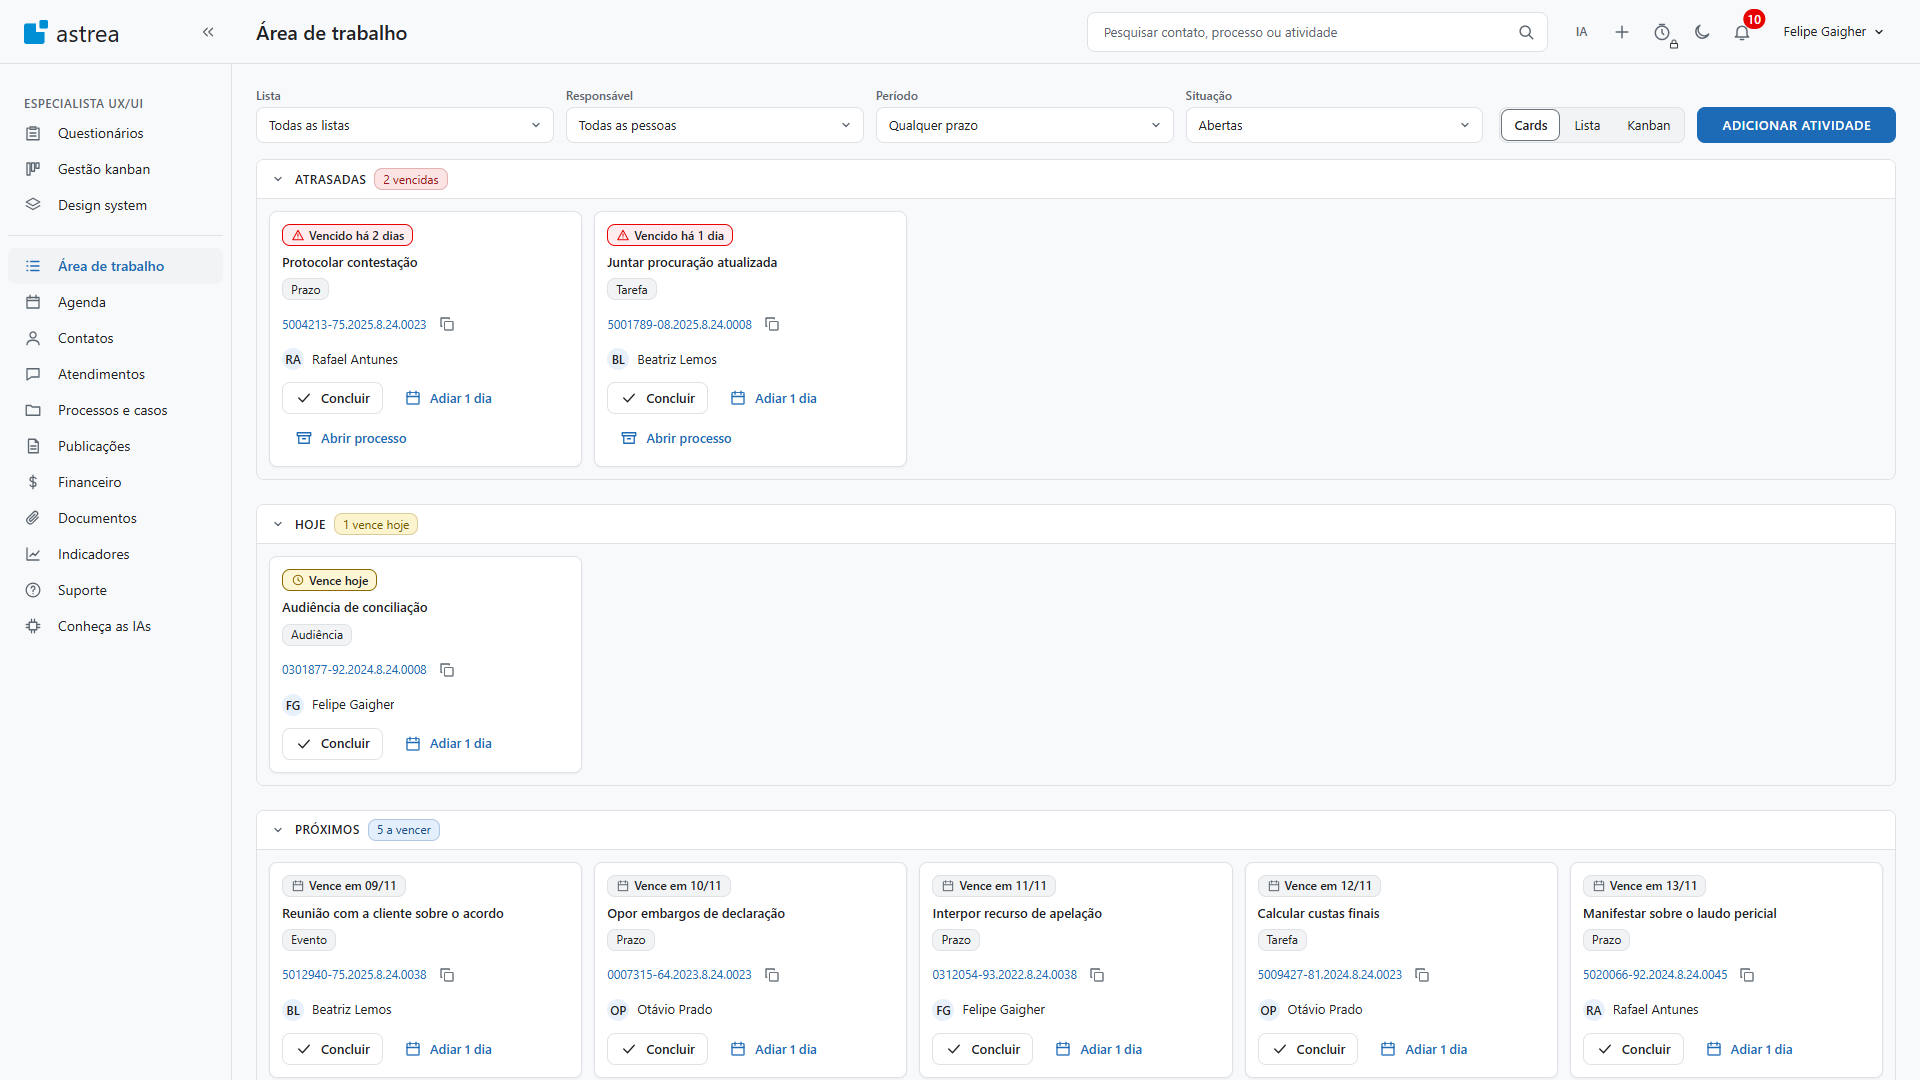
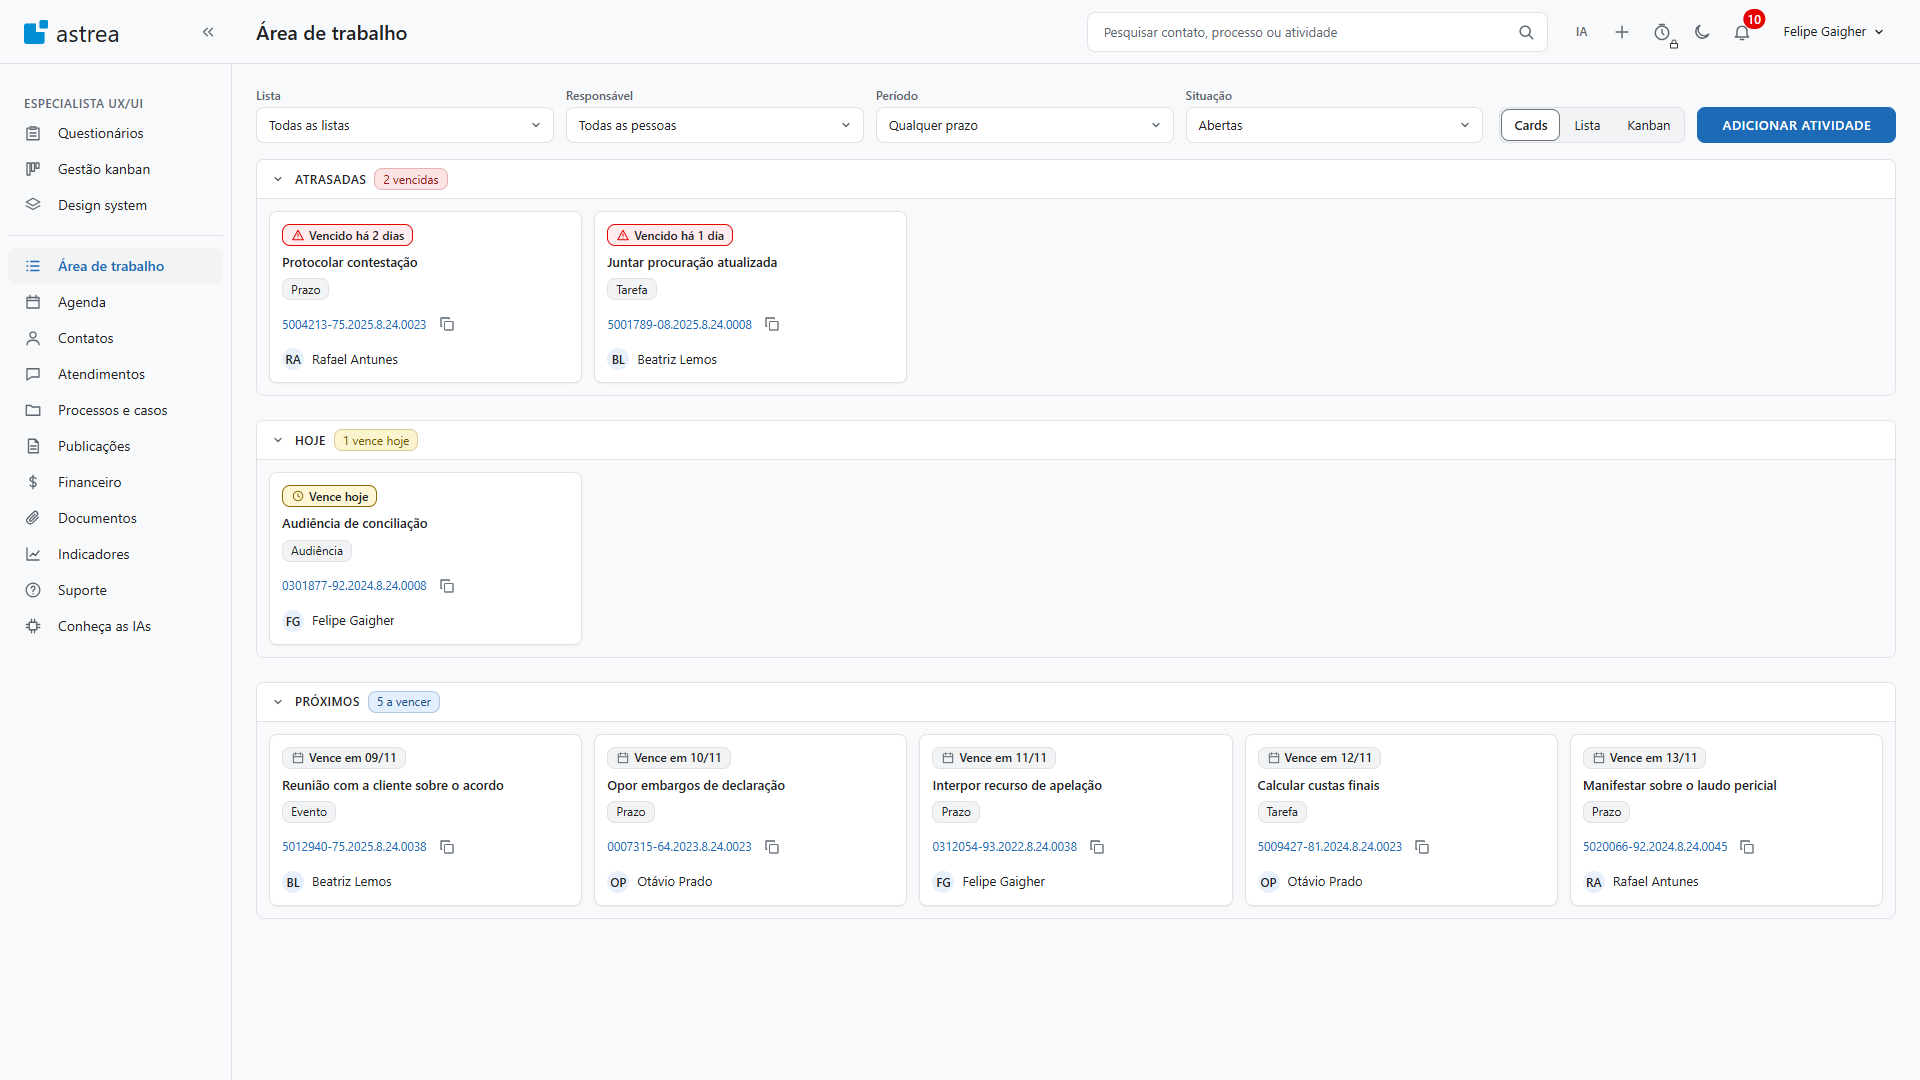
Área de trabalho: cards sem botões de ação; as ações ficam no painel de detalhe
Decisão de Felipe na revisão ao vivo: o card mostra e seleciona, o painel ao lado age. Contatos, Atendimentos e Documentos já eram assim. Captura da visão Cards refeita; legenda do 03-componentes ajustada. Suíte completa verde.

Claude-Session: https://claude.ai/code/session_0136REMWGRpNP8vTL6msTuot

diff --git a/prototipo/area-de-trabalho.html b/prototipo/area-de-trabalho.html
@@ -145,7 +145,6 @@
   @media (max-width: 1100px) { [data-area-principal][data-visao="kanban"] { grid-template-columns: minmax(0, 1fr); } [data-visao="kanban"] .secao { min-height: 0; } }
   .cards-atividade > li { display: flex; min-width: 0; }
   .cards-atividade .card-atividade { width: 100%; }
-  .card-acoes { display: flex; flex-wrap: wrap; gap: var(--space-2); margin-top: auto; padding-top: var(--space-1); }
   @media (max-width: 900px) {
     [data-area-principal]:is([data-visao="cards"], [data-visao="kanban"]) { grid-template-columns: minmax(0, 1fr); }
   }
@@ -299,7 +298,7 @@
     avisar(mensagem, () => {
       Object.assign(atividade, antes);
       desenhar();
-      const linha = document.querySelector(`[data-id="${atividade.id}"] .linha-acoes button, [data-id="${atividade.id}"] .card-acoes button`);
+      const linha = document.querySelector(`[data-id="${atividade.id}"] .linha-acoes button`);
       if (linha) linha.focus();
     });
   }
@@ -620,14 +619,7 @@
       responsavel: a.responsavel, copiarNumero: true,
     });
     el.dataset.id = a.id;
-    const acoes = document.createElement('div');
-    acoes.className = 'card-acoes';
-    acoes.append(...acoesDe(a).map((acao, i) => {
-      const botao = DS.botao({ rotulo: acao.rotulo, iconeEsquerda: acao.icone, tamanho: 'pequeno', variante: i === 0 ? 'secundario' : 'texto' });
-      botao.addEventListener('click', acao.aoClicar);
-      return botao;
-    }));
-    el.append(acoes);
+    // As ações ficam no painel de detalhe ao lado; o card só mostra e seleciona (decisão de Felipe, 08/11).
     selecionavel(el, a);
     const li = document.createElement('li');
     li.append(el);

diff --git a/03-componentes.html b/03-componentes.html
@@ -450,7 +450,7 @@ svg.ic { width: var(--size-icon); height: var(--size-icon); fill: none; stroke: 
     <p>A tela abre em todas as listas, com as seções Atrasadas, Hoje e Próximos. Os filtros ficam numa linha. A visão Lista usa a tabela do DS, uma por seção, com as mesmas colunas. O clique na linha abre o painel de detalhe ao lado.</p>
     <div class="capturas">
       <figure><img src="prototipo/capturas/area-de-trabalho-1920-detalhe.png" alt="Área de trabalho na visão Lista, com a primeira atividade atrasada selecionada e o painel de detalhe aberto à direita"><figcaption>Lista com o painel de detalhe ao lado. O painel muda de largura pelo divisor.</figcaption></figure>
-      <figure><img src="prototipo/capturas/area-de-trabalho-1920-cards.png" alt="Área de trabalho na visão Cards, com as seções Atrasadas, Hoje e Próximos"><figcaption>Visão Cards. O card de atividade traz Concluir, Adiar e Abrir processo.</figcaption></figure>
+      <figure><img src="prototipo/capturas/area-de-trabalho-1920-cards.png" alt="Área de trabalho na visão Cards, com as seções Atrasadas, Hoje e Próximos"><figcaption>Visão Cards. O card mostra e seleciona; as ações ficam no painel de detalhe.</figcaption></figure>
     </div>
   </section>
 
